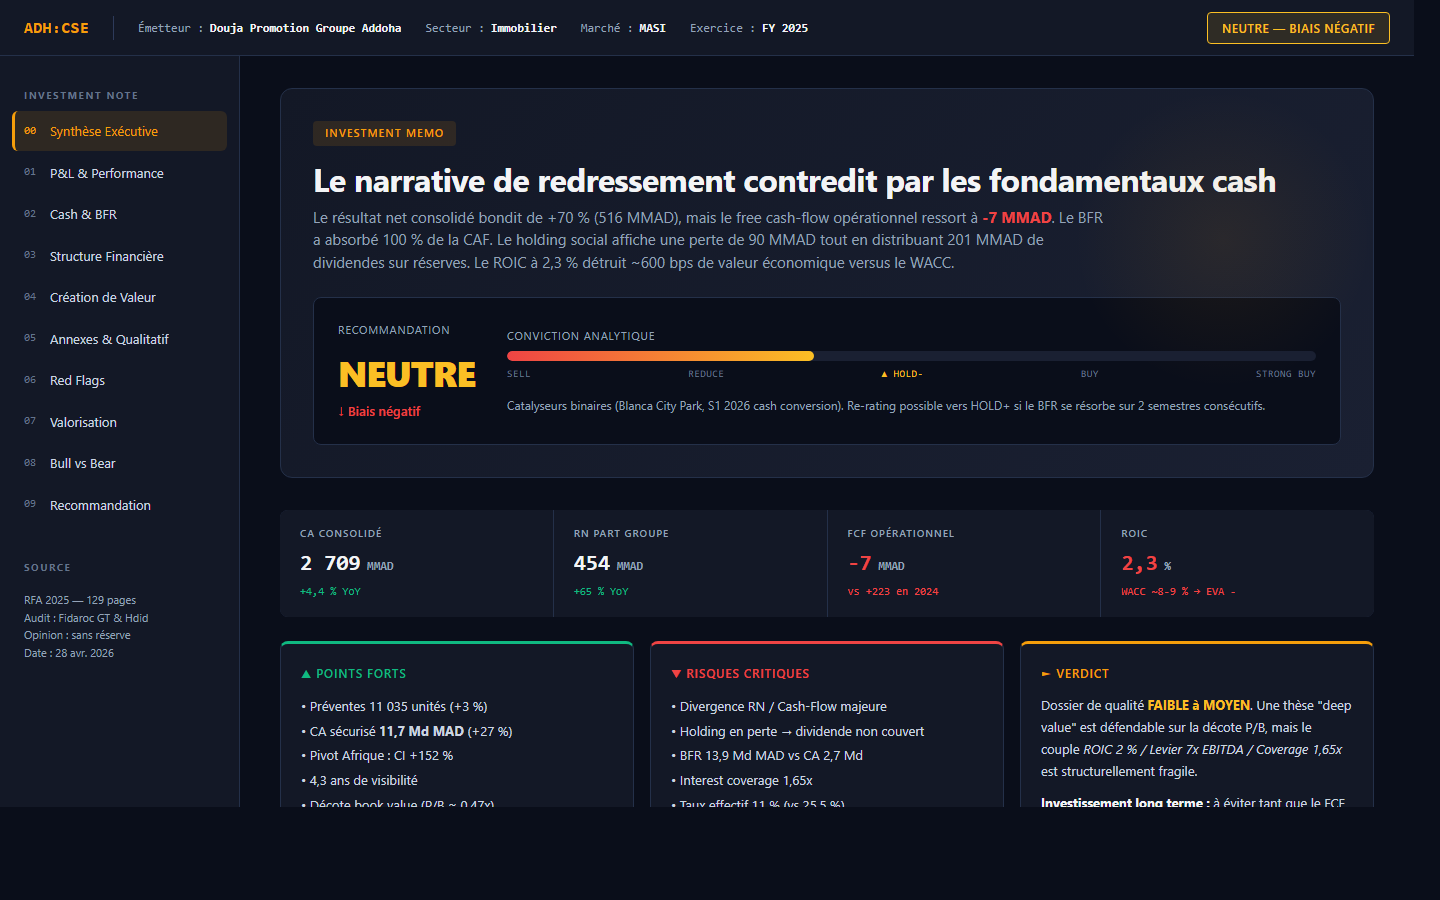
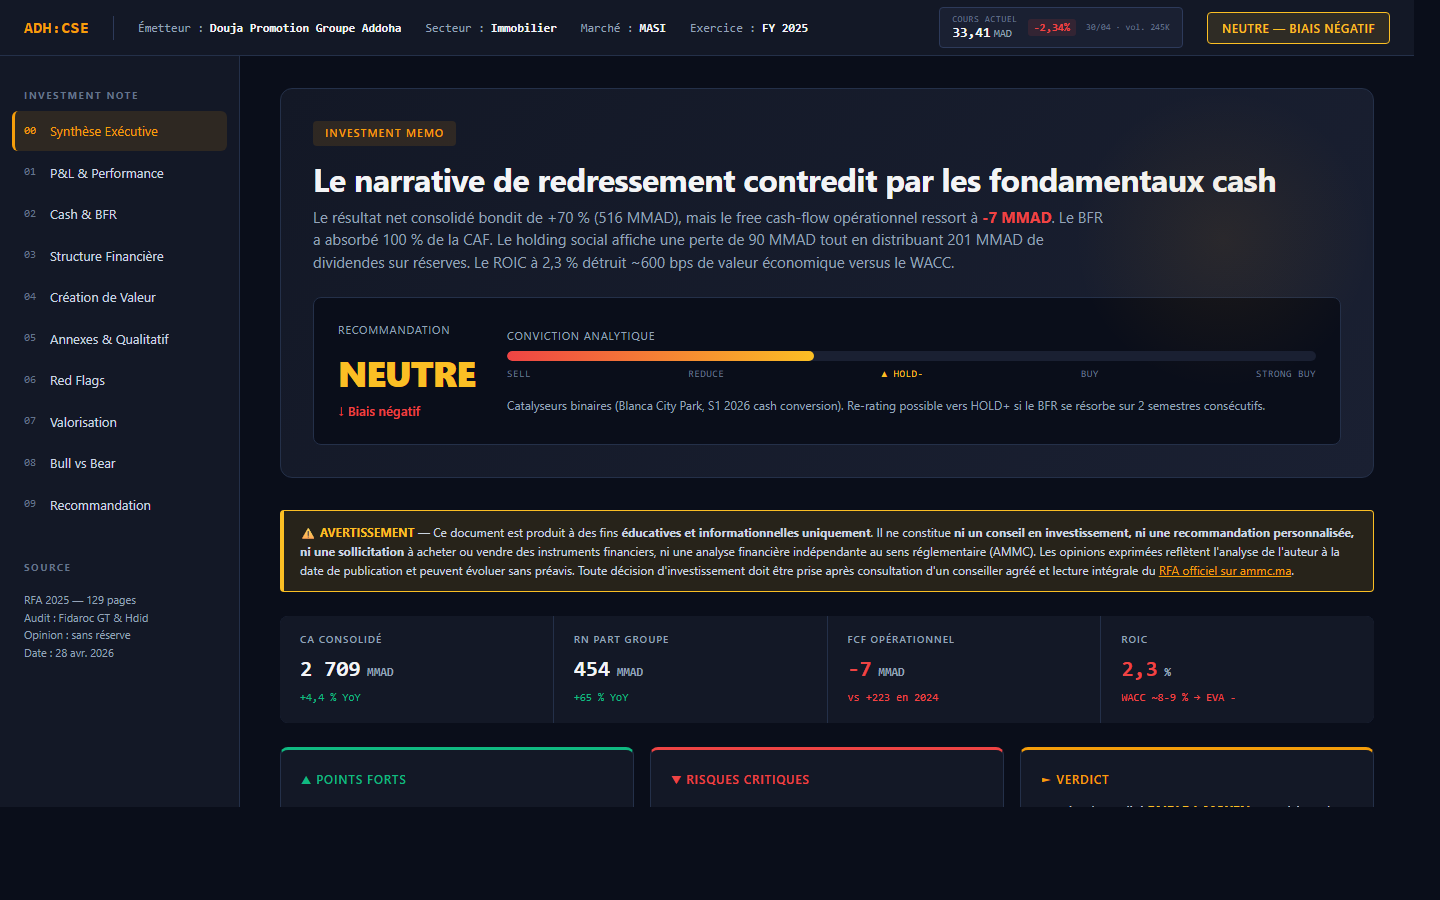
Add live price badge, triple legal disclaimer to ADH reference HTML
Updates the ADH 2025 reference HTML to comply with the new mandatory rules from the previous commit:

1. Live price badge in topbar
   - 33.41 MAD captured from investing.com on 30/04/2026
   - Shows price, currency, daily change (-2.34%), date, volume
   - Compact responsive variant on mobile (price + delta only)
   - CSS: .price-badge classes added

2. Triple legal disclaimer
   - HTML <head> comment block (full disclaimer + sources)
   - Visible warning banner after the hero (warning-soft background, warning border, ammc.ma link)
   - Legal footer at page bottom (regulatory mentions, sources with links, requirement to consult licensed advisor)
   - Original weak footer disclaimer kept for source/methodology context, the new legal footer added below

3. Regenerated desktop and mobile screenshots showing the new elements

Note: live JS auto-refresh deliberately not implemented in the example - the skill workflow fetches the price via WebFetch at generation time and embeds it as static. The example demonstrates this pattern faithfully.

Changed region(s): [[0.1875, 0.56, 0.9375, 0.9022], [0.6562, 0.0, 0.75, 0.0622], [0.7812, 0.0, 0.8125, 0.0311]]

diff --git a/examples/adh-2025-reference.html b/examples/adh-2025-reference.html
@@ -23,6 +23,27 @@
 <meta name="twitter:title" content="ADH 2025 — Investment Note Institutionnelle">
 <meta name="twitter:description" content="Analyse fondamentale Addoha FY2025 · RN +70% contredit par FCF -7 MMAD · 10 red flags · NEUTRE biais négatif">
 
+<!--
+================================================================================
+DISCLAIMER LÉGAL
+================================================================================
+Ce document est produit à des fins éducatives et informationnelles uniquement.
+Il ne constitue PAS un conseil en investissement, une recommandation personnalisée,
+une sollicitation à acheter ou vendre des instruments financiers, ni une analyse
+financière indépendante au sens réglementaire (AMMC pour le Maroc, AMF pour la
+France, SEC pour les USA, FCA pour le Royaume-Uni).
+
+L'auteur ne détient pas nécessairement de position sur la valeur analysée et
+n'assume aucune responsabilité quant aux décisions prises sur la base de ce
+document. Les performances passées ne préjugent pas des performances futures.
+Toute décision d'investissement doit être prise après consultation d'un
+conseiller en investissement agréé et lecture intégrale des documents officiels
+de l'émetteur (RFA, prospectus, communiqués réglementés AMMC).
+
+Sources : Rapport Financier Annuel 2025 d'Addoha (publié sur ammc.ma) ;
+cours boursier via investing.com (snapshot au 30/04/2026).
+================================================================================
+-->
 <script src="https://cdn.jsdelivr.net/npm/chart.js@4.4.0/dist/chart.umd.min.js"></script>
 <style>
   :root {
@@ -93,6 +114,50 @@
     font-size: 12px;
   }
   .topbar-meta strong { color: var(--text-primary); margin-left: 6px; }
+
+  /* ======= LIVE PRICE BADGE ======= */
+  .price-badge {
+    display: flex;
+    align-items: center;
+    gap: 10px;
+    padding: 6px 12px;
+    border-radius: 4px;
+    background: var(--bg-tertiary);
+    border: 1px solid var(--border-strong);
+    font-family: var(--mono);
+    font-size: 12px;
+    color: var(--text-secondary);
+    line-height: 1.2;
+  }
+  .price-badge-label {
+    font-size: 9px;
+    text-transform: uppercase;
+    letter-spacing: 0.5px;
+    color: var(--text-dim);
+  }
+  .price-badge-value {
+    font-size: 14px;
+    font-weight: 700;
+    color: var(--text-primary);
+  }
+  .price-badge-delta {
+    font-size: 11px;
+    font-weight: 600;
+    padding: 2px 6px;
+    border-radius: 3px;
+  }
+  .price-badge-delta.neg {
+    background: var(--danger-soft);
+    color: var(--danger);
+  }
+  .price-badge-delta.pos {
+    background: var(--success-soft);
+    color: var(--success);
+  }
+  .price-badge-meta {
+    font-size: 9px;
+    color: var(--text-dim);
+  }
   .topbar-spacer { flex: 1; }
   .rating-pill {
     padding: 6px 14px;
@@ -780,6 +845,10 @@
     .topbar { padding: 0 12px; gap: 10px; }
     .ticker { font-size: 14px; }
     .topbar-meta { display: none; }
+    .price-badge { padding: 4px 8px; gap: 6px; }
+    .price-badge-label, .price-badge-meta { display: none; }
+    .price-badge-value { font-size: 12px; }
+    .price-badge-delta { font-size: 10px; padding: 1px 4px; }
     .topbar-divider { display: none; }
     .rating-pill { font-size: 10px; padding: 5px 10px; }
     .menu-btn { display: flex; }
@@ -900,6 +969,14 @@
     <span>Exercice :<strong>FY 2025</strong></span>
   </div>
   <div class="topbar-spacer"></div>
+  <div class="price-badge" id="priceBadge" title="Cours via investing.com — actualisation manuelle">
+    <div>
+      <div class="price-badge-label">Cours actuel</div>
+      <div><span class="price-badge-value" id="priceValue">33,41</span><span style="color:var(--text-muted);font-size:11px;margin-left:3px;">MAD</span></div>
+    </div>
+    <div class="price-badge-delta neg" id="priceDelta">-2,34%</div>
+    <div class="price-badge-meta" id="priceMeta">30/04 · vol. 245K</div>
+  </div>
   <div class="rating-pill">NEUTRE — biais négatif</div>
 </header>
 
@@ -961,6 +1038,11 @@
           </div>
         </div>
       </div>
+    </div>
+
+    <!-- DISCLAIMER BANNER (obligatoire) -->
+    <div role="note" style="background: var(--warning-soft); border: 1px solid var(--warning); border-left: 4px solid var(--warning); padding: 12px 16px; margin: 16px 0 24px; border-radius: 4px; font-size: 12px; color: var(--text-secondary); line-height: 1.55;">
+      <strong style="color: var(--warning);">⚠ AVERTISSEMENT</strong> — Ce document est produit à des fins <strong>éducatives et informationnelles uniquement</strong>. Il ne constitue <strong>ni un conseil en investissement, ni une recommandation personnalisée, ni une sollicitation</strong> à acheter ou vendre des instruments financiers, ni une analyse financière indépendante au sens réglementaire (AMMC). Les opinions exprimées reflètent l'analyse de l'auteur à la date de publication et peuvent évoluer sans préavis. Toute décision d'investissement doit être prise après consultation d'un conseiller agréé et lecture intégrale du <a href="https://www.ammc.ma/" target="_blank" rel="noopener" style="color: var(--accent);">RFA officiel sur ammc.ma</a>.
     </div>
 
     <!-- KPI BAR -->
@@ -1673,10 +1755,18 @@
 
   <div class="footer">
     Analyse établie sous contrainte d'informations <code>RFA 2025</code> uniquement (129 pages).<br>
-    Cours boursier et benchmarks pairs (Alliances, RDS) à recalibrer en données de marché live.<br>
-    Hypothèses : <code>WACC 8-9 %</code> · <code>Ke 11-12 %</code> basées sur taux BAM 2,75 % + prime Maroc + prime secteur immobilier.<br>
-    Document à usage interne — ne constitue pas un conseil en investissement.
+    Cours boursier capturé via investing.com au <code>30/04/2026</code>.<br>
+    Hypothèses : <code>WACC 8-9 %</code> · <code>Ke 11-12 %</code> basées sur taux BAM 2,75 % + prime Maroc + prime secteur immobilier.
   </div>
+
+  <!-- ============ LEGAL FOOTER (obligatoire) ============ -->
+  <footer style="margin: 48px -28px -28px; padding: 24px 32px; background: var(--bg-secondary); border-top: 2px solid var(--warning); font-size: 11px; color: var(--text-muted); line-height: 1.7;">
+    <div style="max-width: 980px; margin: 0 auto;">
+      <p style="margin-bottom: 10px;"><strong style="color: var(--warning);">DISCLAIMER LÉGAL —</strong> Ce document est produit à des fins <strong>éducatives et informationnelles uniquement</strong>. Il ne constitue <strong>ni un conseil en investissement, ni une recommandation personnalisée, ni une sollicitation à acheter ou vendre des instruments financiers, ni une analyse financière indépendante</strong> au sens réglementaire (AMMC pour le Maroc). L'auteur n'assume aucune responsabilité quant aux décisions prises sur la base de ce document. Les performances passées ne préjugent pas des performances futures. La valeur des investissements peut fluctuer à la baisse comme à la hausse.</p>
+      <p style="margin-bottom: 10px;"><strong style="color: var(--text-secondary);">Sources —</strong> <a href="https://www.ammc.ma/" target="_blank" rel="noopener" style="color: var(--accent);">Rapport Financier Annuel 2025 d'Addoha publié sur ammc.ma</a> (129 pages) · Cours boursier <a href="https://www.investing.com/equities/addoha" target="_blank" rel="noopener" style="color: var(--accent);">via investing.com</a> au <span id="footerPriceDate">30 avril 2026</span> · Taux BAM 2,75 % au 28/04/2026 · Calculs WACC selon CAPM (Rf 10Y MAD ~3 %, ERP Maroc ~7 %, β secteur immobilier ~1,1).</p>
+      <p style="text-align: center; color: var(--text-dim); margin-top: 14px; padding-top: 12px; border-top: 1px solid var(--border);">Toute décision d'investissement doit être prise après consultation d'un <strong>conseiller en investissement agréé</strong> et lecture intégrale des documents officiels de l'émetteur.</p>
+    </div>
+  </footer>
 
 </main>
 </div>
